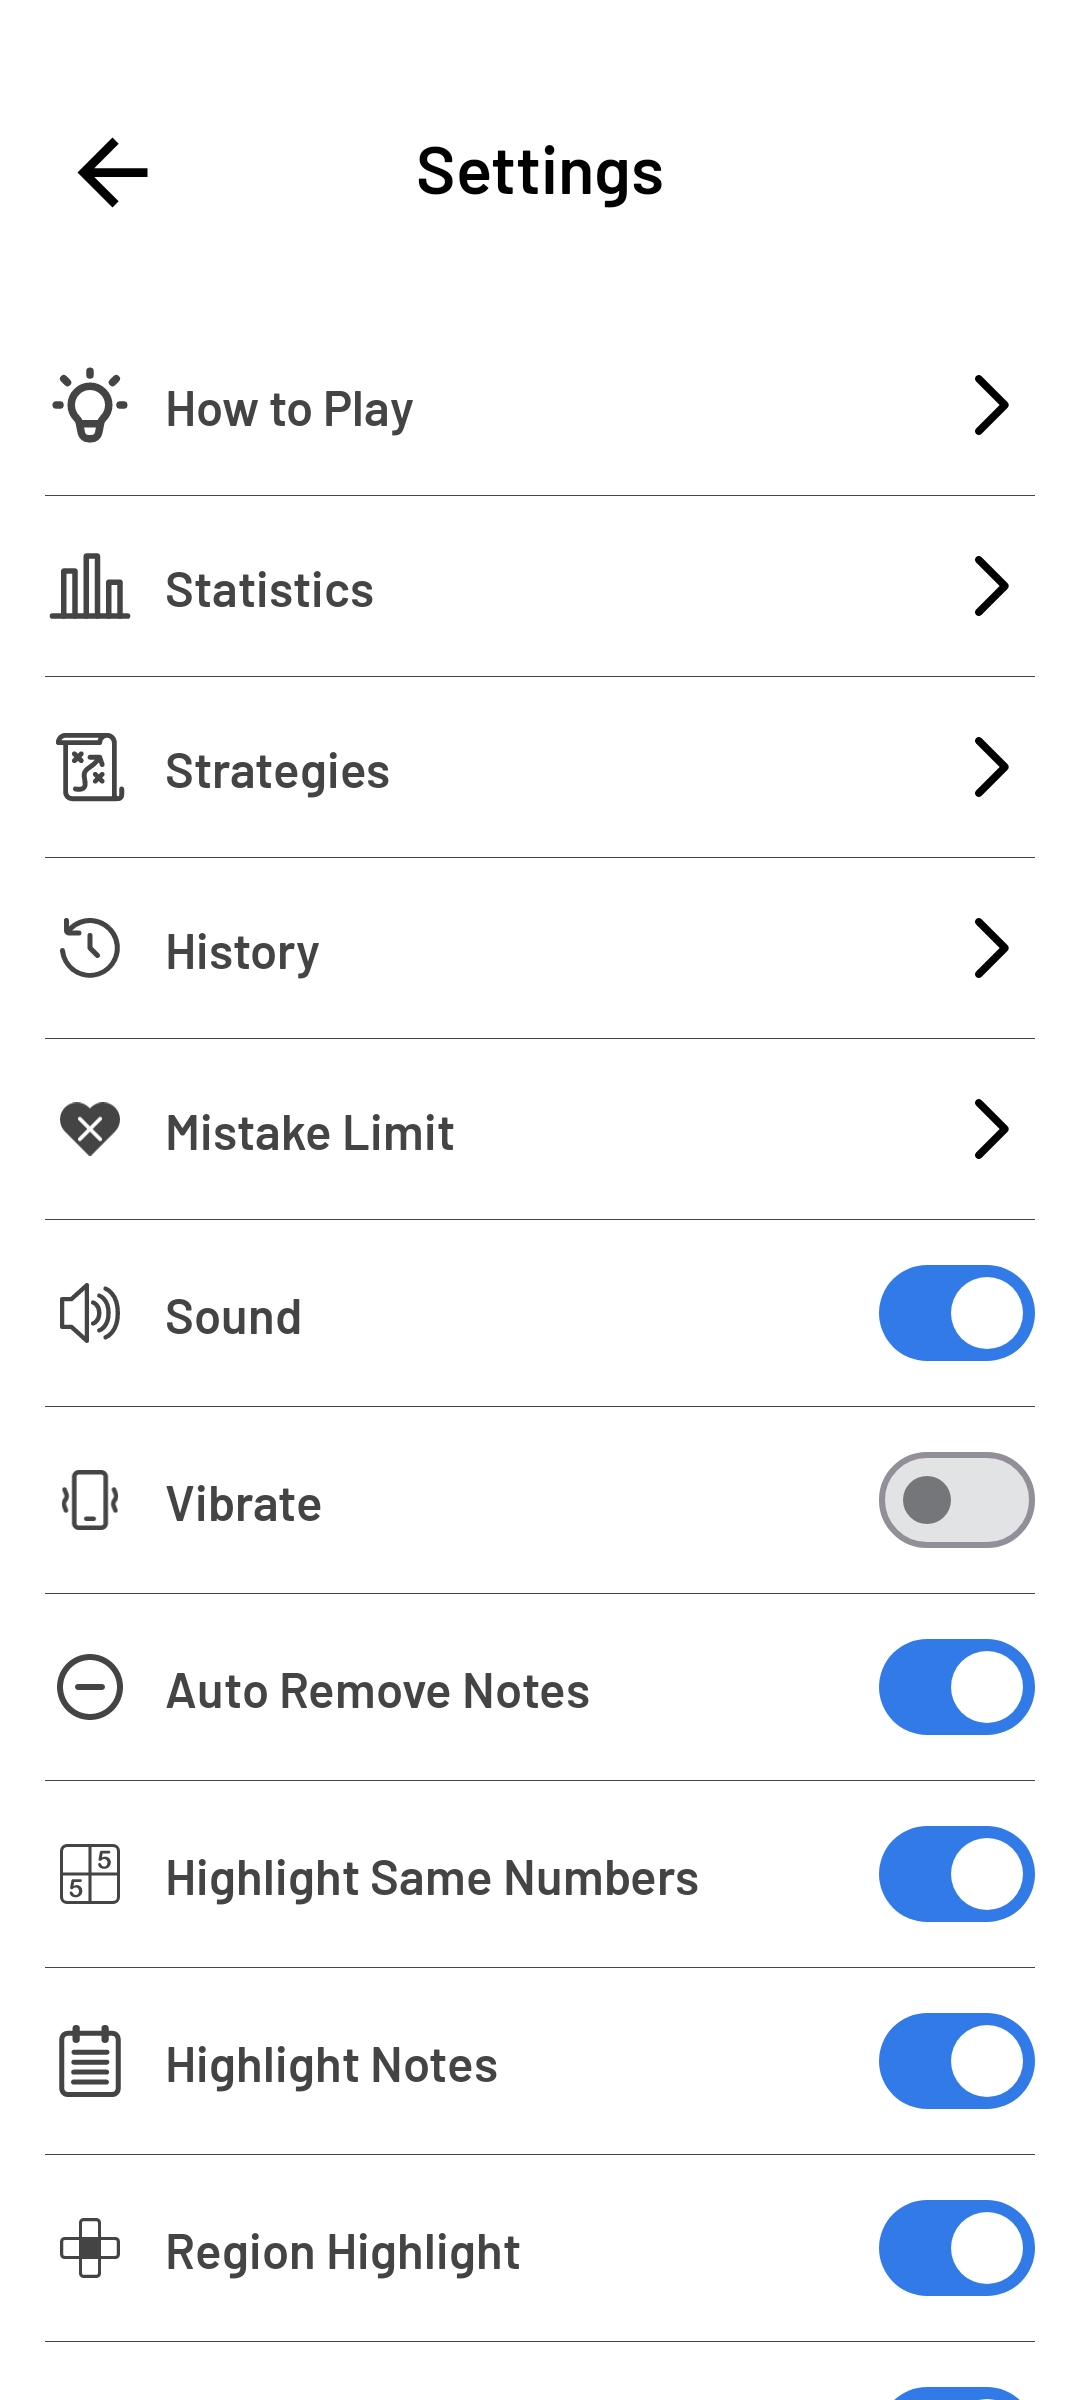
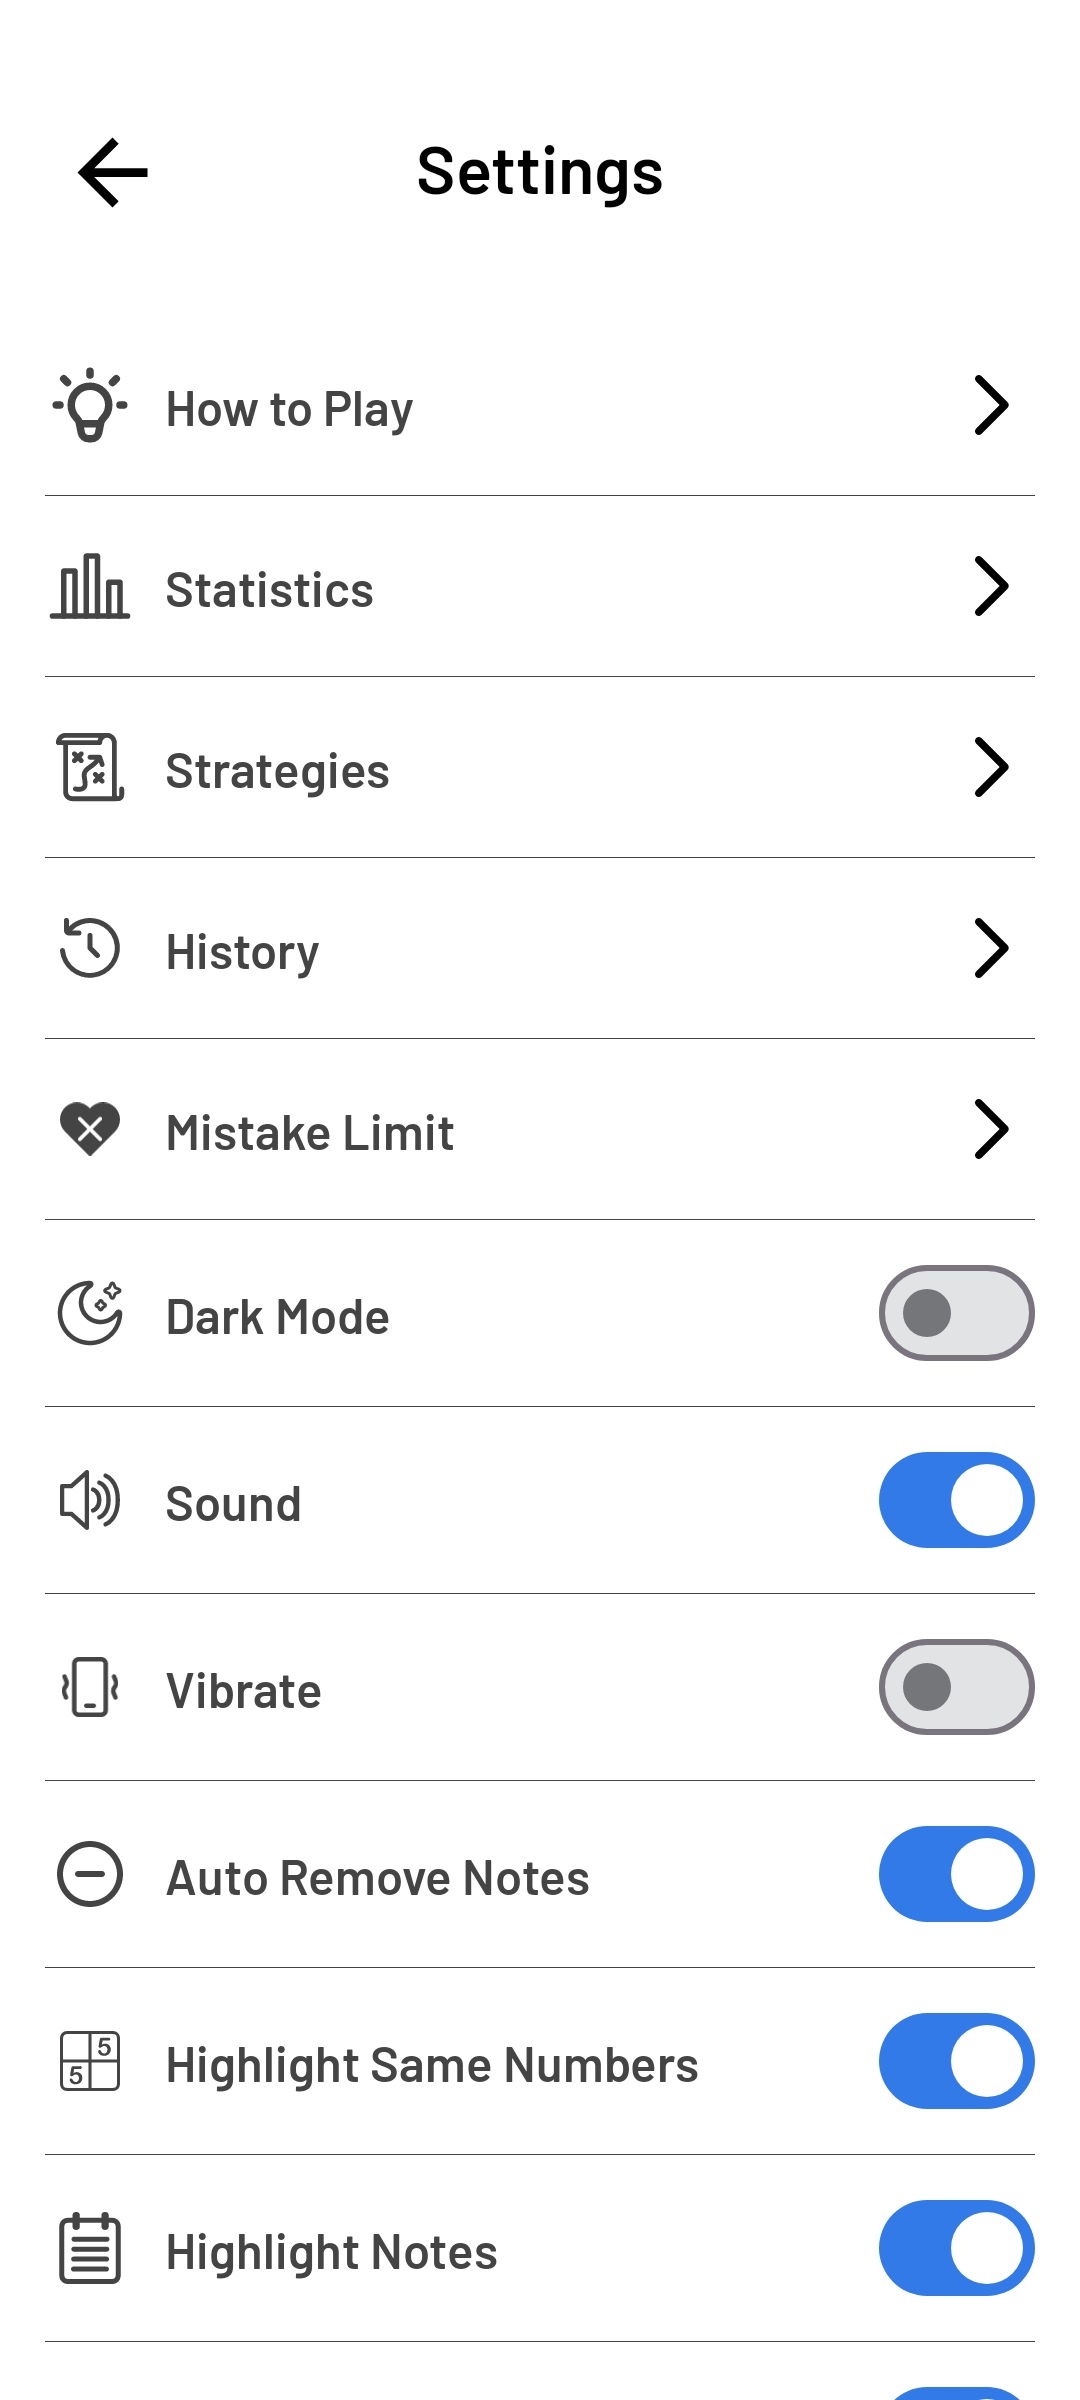
add: filter in history

diff --git a/app/src/main/java/com/sougata/sudoku/activities/HistoryActivity.java b/app/src/main/java/com/sougata/sudoku/activities/HistoryActivity.java
@@ -3,11 +3,14 @@ package com.sougata.sudoku.activities;
 import android.database.Cursor;
 import android.os.Bundle;
 import android.view.View;
+import android.widget.AdapterView;
+import android.widget.ArrayAdapter;
 import android.widget.ImageView;
 
 import androidx.activity.EdgeToEdge;
 import androidx.activity.OnBackPressedCallback;
 import androidx.appcompat.app.AppCompatActivity;
+import androidx.appcompat.widget.AppCompatSpinner;
 import androidx.recyclerview.widget.LinearLayoutManager;
 import androidx.recyclerview.widget.RecyclerView;
 
@@ -25,9 +28,11 @@ import java.util.Calendar;
 public class HistoryActivity extends AppCompatActivity implements ButtonClickListener {
 
     Database db;
-    ArrayList<HistoryItem> items = new ArrayList<>();
+    ArrayList<HistoryItem> items = new ArrayList<>(), allItems = new ArrayList<>();
+
     ImageView backBtn;
     RecyclerView historyRecyclerView;
+    AppCompatSpinner matchTypes, classicType;
 
     @Override
     protected void onCreate(Bundle savedInstanceState) {
@@ -41,6 +46,8 @@ public class HistoryActivity extends AppCompatActivity implements ButtonClickLis
 
         backBtn = findViewById(R.id.iv_history_back_button);
         historyRecyclerView = findViewById(R.id.rv_history);
+        matchTypes = findViewById(R.id.sp_type);
+        classicType = findViewById(R.id.sp_classic_type);
 
         db = new Database(this);
 
@@ -62,13 +69,100 @@ public class HistoryActivity extends AppCompatActivity implements ButtonClickLis
                 overridePendingTransition(R.anim.slide_in_left, R.anim.slide_out_right);
             }
         });
+
+        String[] matchTypesArray = getResources().getStringArray(R.array.match_types);
+        ArrayAdapter<String> matchTypeAdapter = new ArrayAdapter<>(this, R.layout.spinner_item, android.R.id.text1, matchTypesArray);
+        matchTypeAdapter.setDropDownViewResource(android.R.layout.simple_spinner_dropdown_item);
+        matchTypes.setAdapter(matchTypeAdapter);
+
+        String[] classicTypes = new String[Constants.LEVEL_NAME.length + 1];
+        classicTypes[0] = "All";
+        System.arraycopy(Constants.LEVEL_NAME, 0, classicTypes, 1, Constants.LEVEL_NAME.length);
+        ArrayAdapter<String> classicTypeAdapter = new ArrayAdapter<>(this, R.layout.spinner_item, android.R.id.text1, classicTypes);
+        classicTypeAdapter.setDropDownViewResource(android.R.layout.simple_spinner_dropdown_item);
+        classicType.setAdapter(classicTypeAdapter);
+
+        matchTypes.setOnItemSelectedListener(new AdapterView.OnItemSelectedListener() {
+            @Override
+            public void onItemSelected(AdapterView<?> parent, View view, int position, long l) {
+                if (matchTypesArray[position].equals(matchTypesArray[1])) {
+                    classicType.setVisibility(View.VISIBLE);
+                } else {
+                    classicType.setVisibility(View.INVISIBLE);
+                }
+                if (position == 0) {
+                    items.clear();
+                    items.addAll(allItems);
+                } else if (position == 1) {
+                    items.clear();
+                    for (HistoryItem item : allItems) {
+                        if (item.getType().equals(Constants.TYPES[0])) {
+                            items.add(item);
+                        }
+                    }
+                    classicType.setSelection(0);
+                } else if (position == 2) {
+                    items.clear();
+                    for (HistoryItem item : allItems) {
+                        if (item.getType().equals(Constants.TYPES[1])) {
+                            items.add(item);
+                        }
+                    }
+                } else if (position == 3) {
+                    items.clear();
+                    for (HistoryItem item : allItems) {
+                        if (item.getType().equals(Constants.TYPES[2])) {
+                            items.add(item);
+                        }
+                    }
+                }
+                adapter.notifyDataSetChanged();
+            }
+
+            @Override
+            public void onNothingSelected(AdapterView<?> parent) {
+            }
+        });
+
+        classicType.setOnItemSelectedListener(new AdapterView.OnItemSelectedListener() {
+            @Override
+            public void onItemSelected(AdapterView<?> parent, View view, int position, long l) {
+                if (position == 0) {
+                    items.clear();
+                    for (HistoryItem item : allItems) {
+                        if (item.getType().equals(Constants.TYPES[0])) {
+                            items.add(item);
+                        }
+                    }
+                } else {
+                    addDataToList(db.getDifficultyGame(Constants.LEVEL_NAME[position - 1]), items);
+                }
+                adapter.notifyDataSetChanged();
+            }
+
+            @Override
+            public void onNothingSelected(AdapterView<?> parent) {
+            }
+        });
     }
 
     private void loadHistory() {
         Cursor cursor = db.getAllGames();
+        addDataToList(cursor, items);
+        allItems.clear();
+        allItems.addAll(items);
+    }
+
+    @Override
+    public void onItemButtonClick() {
+        finish();
+        overridePendingTransition(R.anim.slide_in_left, R.anim.slide_out_right);
+    }
+
+    private void addDataToList(Cursor cursor, ArrayList<HistoryItem> items) {
+        items.clear();
         if (cursor.getCount() == 0) return;
         cursor.moveToFirst();
-        items.clear();
         while (!cursor.isAfterLast()) {
             long id = cursor.getLong(0);
             String difficulty = cursor.getString(3);
@@ -76,18 +170,13 @@ public class HistoryActivity extends AppCompatActivity implements ButtonClickLis
             int hint = cursor.getInt(8);
             int mistake = cursor.getInt(9);
             boolean isCompleted = cursor.getInt(11) == 1;
+            String type = cursor.getString(10);
             Calendar calendar = Calendar.getInstance();
             calendar.setTimeInMillis(cursor.getLong(13));
-            String date = HelperFunctions.padString(calendar.get(Calendar.DATE), 2) + " " + Constants.MONTHS[calendar.get(Calendar.MONTH)] + ", " + calendar.get(Calendar.YEAR);
+            String date = HelperFunctions.padString(calendar.get(Calendar.DATE), 2) + "/" + HelperFunctions.padString(calendar.get(Calendar.MONTH) + 1, 2) + "/" + calendar.get(Calendar.YEAR);
             String time = HelperFunctions.get12hClock(calendar.get(Calendar.HOUR_OF_DAY), calendar.get(Calendar.MINUTE));
-            items.add(new HistoryItem(id, difficulty, timer, hint, mistake, date, time, isCompleted));
+            items.add(new HistoryItem(id, difficulty, timer, hint, mistake, date, time, isCompleted, type));
             cursor.moveToNext();
         }
-    }
-
-    @Override
-    public void onItemButtonClick() {
-        finish();
-        overridePendingTransition(R.anim.slide_in_left, R.anim.slide_out_right);
     }
 }

diff --git a/app/src/main/java/com/sougata/sudoku/activities/GameActivity.java b/app/src/main/java/com/sougata/sudoku/activities/GameActivity.java
@@ -335,7 +335,7 @@ public class GameActivity extends AppCompatActivity {
                         if (hintRow != null) {
                             TextView hintCell = (TextView) hintRow.getChildAt(idx % 3);
                             if (hintCell.getText().toString().equals(txt)) {
-                                hintCell.setTextColor(ContextCompat.getColor(this, R.color.white));
+                                hintCell.setTextColor(ContextCompat.getColor(this, R.color.fill_btn_text));
                                 hintCell.setBackgroundResource(R.drawable.btn_bg_solid);
                             }
                         }
@@ -644,6 +644,8 @@ public class GameActivity extends AppCompatActivity {
             soundPlayer.playGameComplete(this);
             editor.putInt("hintsCount", hintCount + Constants.HINTS_PER_LEVEL);
             editor.putFloat("advanceNoteCount", advanceNoteCount + Constants.ADVANCE_NOTE_PER_LEVEL);
+            globalStore.setHintsCount(hintCount + Constants.HINTS_PER_LEVEL);
+            globalStore.setAdvanceNoteCount(advanceNoteCount + Constants.ADVANCE_NOTE_PER_LEVEL);
             editor.apply();
             finish();
             overridePendingTransition(R.anim.slide_up, R.anim.slide_down);

diff --git a/app/src/main/java/com/sougata/sudoku/HistoryItem.java b/app/src/main/java/com/sougata/sudoku/HistoryItem.java
@@ -1,12 +1,12 @@
 package com.sougata.sudoku;
 
 public class HistoryItem {
-    private String difficulty, date, time, timer;
+    private String difficulty, date, time, timer, type;
     private int hint, mistake;
     private long id;
     private boolean isCompleted;
 
-    public HistoryItem(long id, String difficulty, String timer, int hint, int mistake, String date, String time, boolean isCompleted) {
+    public HistoryItem(long id, String difficulty, String timer, int hint, int mistake, String date, String time, boolean isCompleted, String type) {
         this.id = id;
         this.difficulty = difficulty;
         this.date = date;
@@ -15,6 +15,7 @@ public class HistoryItem {
         this.hint = hint;
         this.mistake = mistake;
         this.isCompleted = isCompleted;
+        this.type = type;
     }
 
     public String getDifficulty() {
@@ -79,5 +80,13 @@ public class HistoryItem {
 
     public void setId(long id) {
         this.id = id;
+    }
+
+    public String getType() {
+        return type;
+    }
+
+    public void setType(String type) {
+        this.type = type;
     }
 }

diff --git a/app/src/main/java/com/sougata/sudoku/fragments/MainFragment.java b/app/src/main/java/com/sougata/sudoku/fragments/MainFragment.java
@@ -21,6 +21,7 @@ import androidx.fragment.app.FragmentManager;
 import androidx.fragment.app.FragmentTransaction;
 
 import com.bumptech.glide.Glide;
+import com.bumptech.glide.signature.ObjectKey;
 import com.google.android.material.bottomsheet.BottomSheetDialog;
 import com.sougata.GlobalStore;
 import com.sougata.HelperFunctions;
@@ -254,7 +255,7 @@ public class MainFragment extends Fragment {
                 String iconUrl = json.getJSONObject("assets").getString("large_icon");
                 requireActivity().runOnUiThread(() -> {
                     eventTitle.setText(title);
-                    Glide.with(context).load(iconUrl).into(eventIcon);
+                    Glide.with(context).load(iconUrl).signature(new ObjectKey(id)).into(eventIcon);
                     GradientDrawable drawable = (GradientDrawable) eventPlay.getBackground();
                     drawable.setColor(Color.parseColor(bgColor));
                     eventPlay.setTextColor(Color.parseColor(textColor));

diff --git a/app/src/main/java/com/sougata/sudoku/Database.java b/app/src/main/java/com/sougata/sudoku/Database.java
@@ -223,6 +223,11 @@ public class Database extends SQLiteOpenHelper {
         return db.rawQuery("SELECT * FROM games ORDER BY id DESC", null);
     }
 
+    public Cursor getDifficultyGame(String difficulty_name) {
+        SQLiteDatabase db = this.getReadableDatabase();
+        return db.rawQuery("SELECT * FROM games WHERE difficulty_name=? AND type=?", new String[]{difficulty_name, Constants.TYPES[0]});
+    }
+
     public Cursor getGameById(long id) {
         SQLiteDatabase db = this.getReadableDatabase();
         return db.rawQuery("SELECT * FROM games WHERE id=?", new String[]{String.valueOf(id)});

diff --git a/app/src/main/java/com/sougata/Constants.java b/app/src/main/java/com/sougata/Constants.java
@@ -22,6 +22,6 @@ public final class Constants {
     public static final boolean ADVANCE_NOTE = true;
     public static final boolean HIGHLIGHT_NOTES = true;
     public static final boolean DARK_MODE = false;
-    public static final int HINTS_PER_LEVEL = 2;
-    public static final float ADVANCE_NOTE_PER_LEVEL = 0.5f;
+    public static final int HINTS_PER_LEVEL = 1;
+    public static final float ADVANCE_NOTE_PER_LEVEL = 0.25f;
 }

diff --git a/app/src/main/java/com/sougata/sudoku/activities/SplashScreenActivity.java b/app/src/main/java/com/sougata/sudoku/activities/SplashScreenActivity.java
@@ -41,7 +41,7 @@ public class SplashScreenActivity extends AppCompatActivity {
 
         setContentView(R.layout.activity_splash_screen);
 
-        if (globalStore.isDarkMode()){
+        if (globalStore.isDarkMode()) {
             AppCompatDelegate.setDefaultNightMode(AppCompatDelegate.MODE_NIGHT_YES);
         } else {
             AppCompatDelegate.setDefaultNightMode(AppCompatDelegate.MODE_NIGHT_NO);

diff --git a/readme.md b/readme.md
@@ -71,3 +71,17 @@ width="200" hspace="10" vspace="10">
 width="200" hspace="10" vspace="10">
 <img src="https://raw.githubusercontent.com/Sou-gata/sudoku_android_game/refs/heads/main/screenshots/6.jpg" align="left"
 width="200" hspace="10" vspace="10">
+<br/>
+<br>
+<img src="https://raw.githubusercontent.com/Sou-gata/sudoku_android_game/refs/heads/main/screenshots/7.jpg" align="left"
+width="100" hspace="5" vspace="5">
+<img src="https://raw.githubusercontent.com/Sou-gata/sudoku_android_game/refs/heads/main/screenshots/8.jpg" align="left"
+width="100" hspace="5" vspace="5">
+<img src="https://raw.githubusercontent.com/Sou-gata/sudoku_android_game/refs/heads/main/screenshots/9.jpg" align="left"
+width="100" hspace="5" vspace="5">
+<img src="https://raw.githubusercontent.com/Sou-gata/sudoku_android_game/refs/heads/main/screenshots/10.jpg" align="left"
+width="100" hspace="5" vspace="5">
+<img src="https://raw.githubusercontent.com/Sou-gata/sudoku_android_game/refs/heads/main/screenshots/11.jpg" align="left"
+width="100" hspace="5" vspace="5">
+<img src="https://raw.githubusercontent.com/Sou-gata/sudoku_android_game/refs/heads/main/screenshots/12.jpg" align="left"
+width="100" hspace="5" vspace="5">
